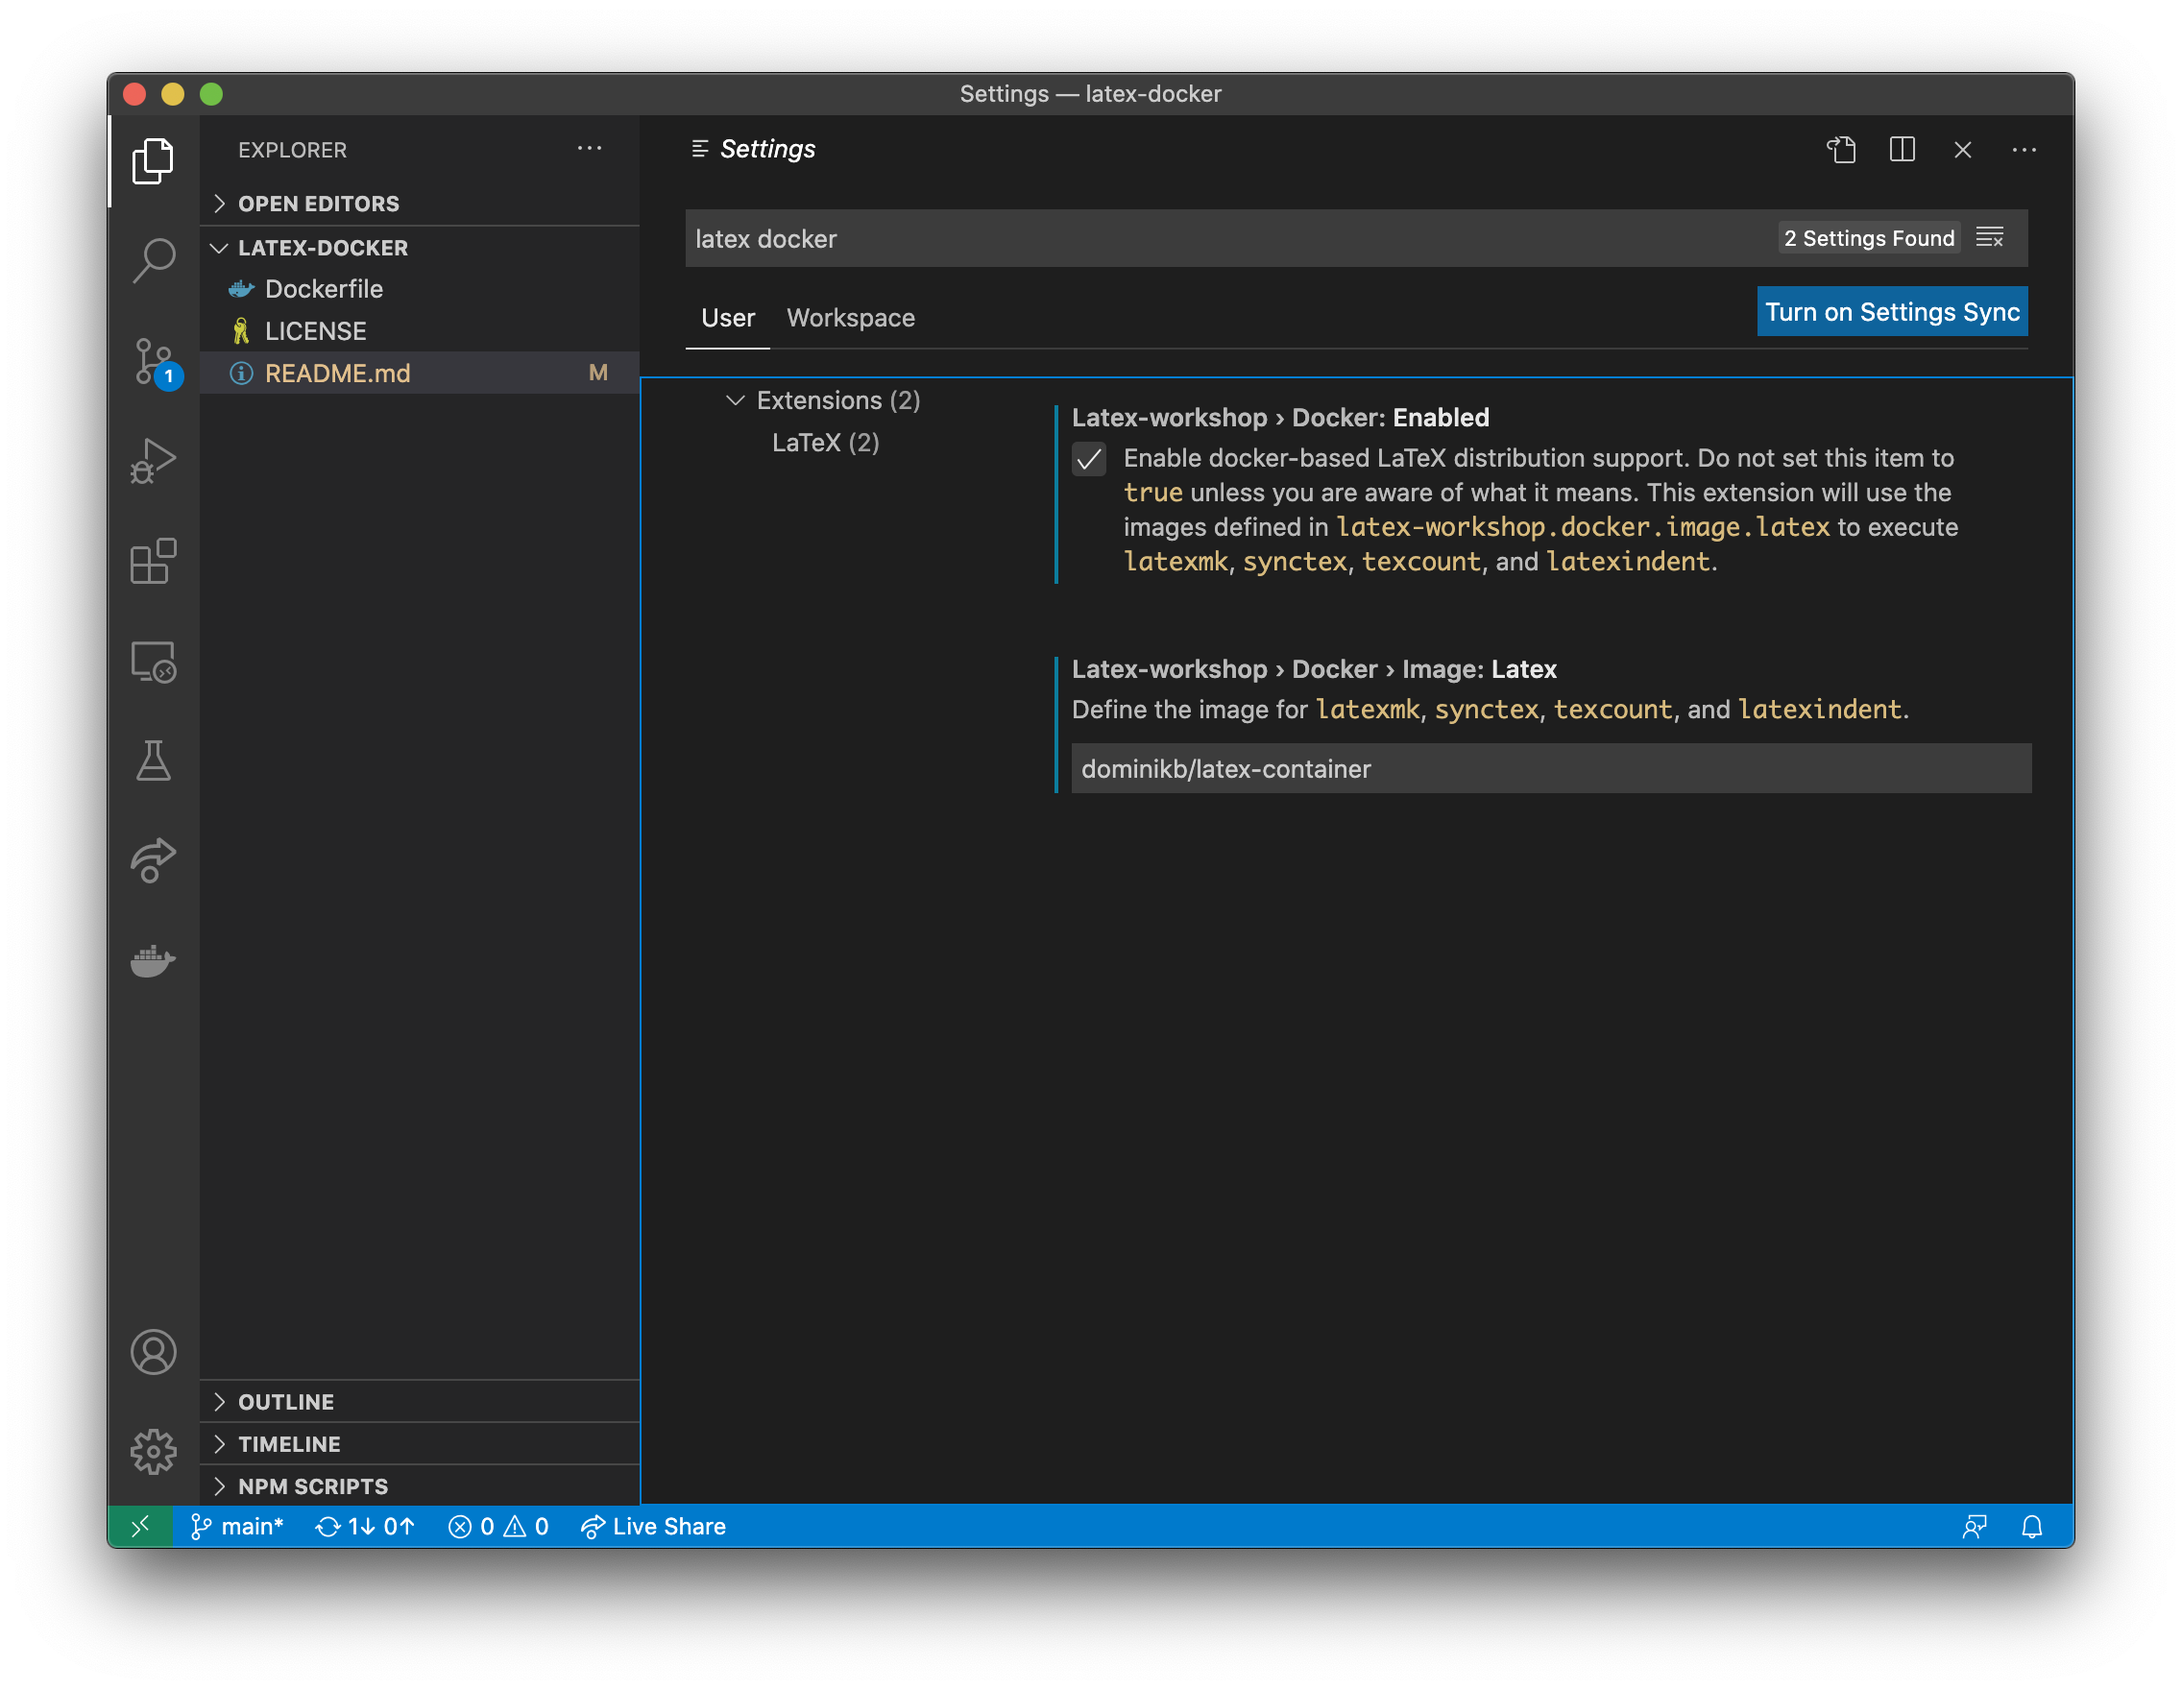
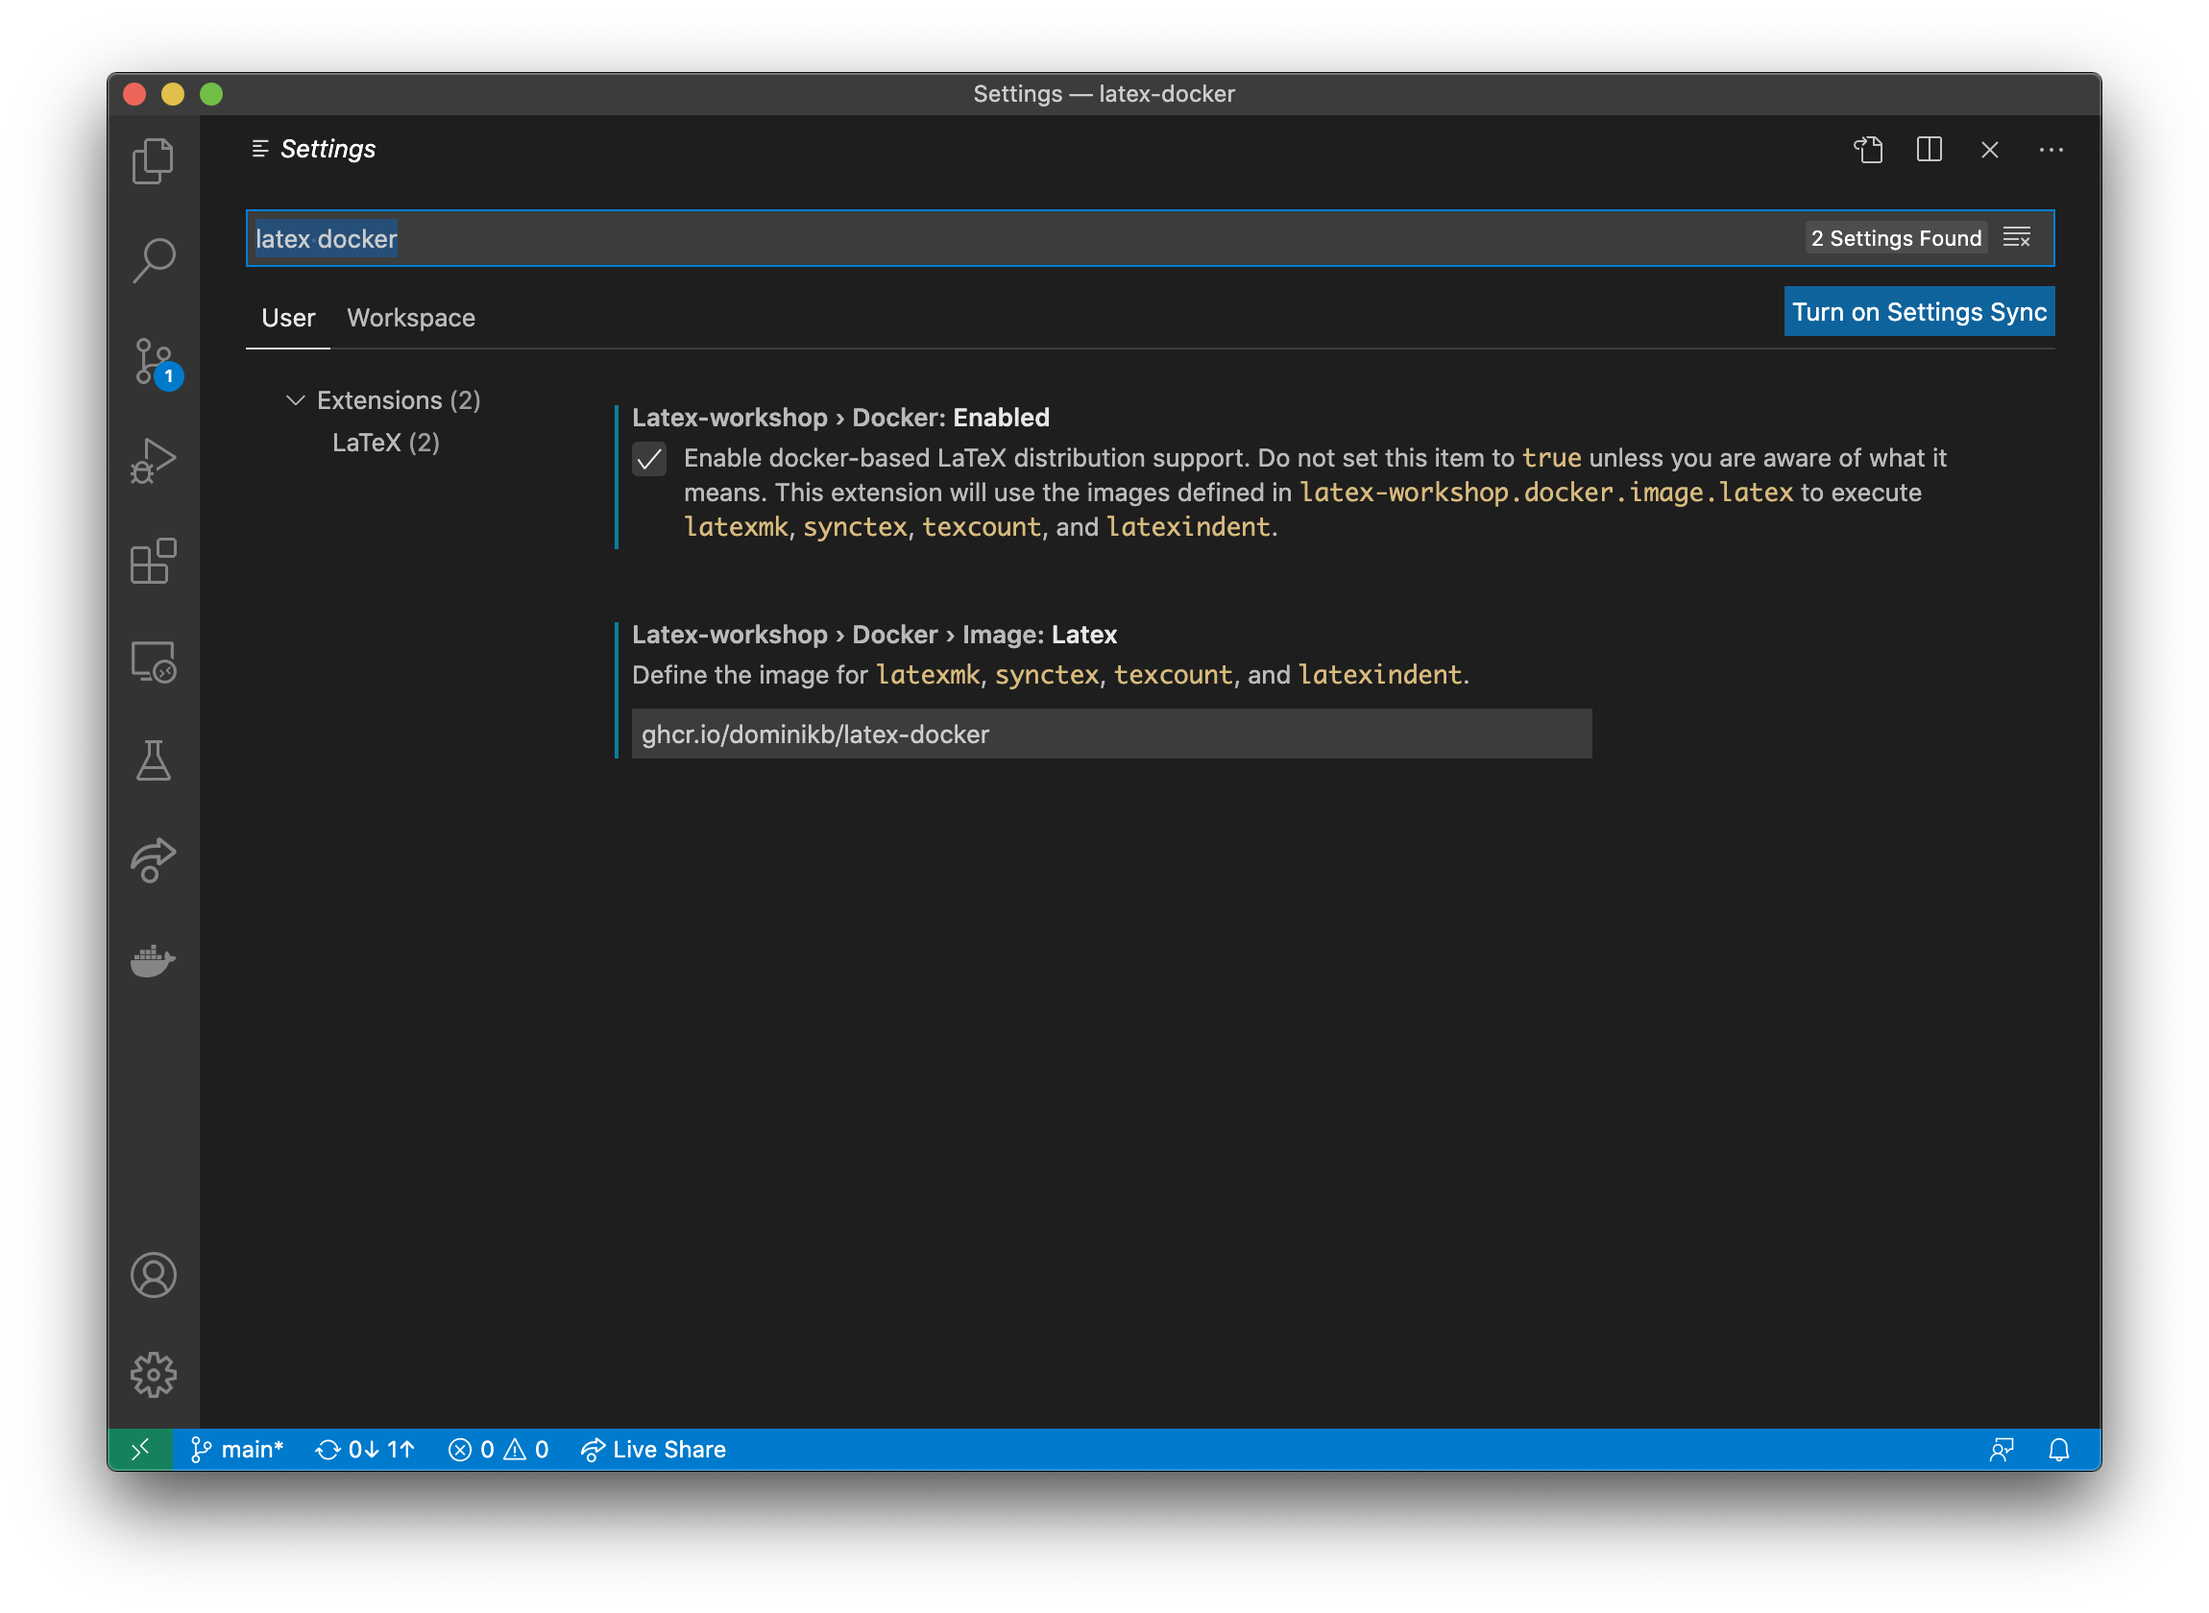
Update readme

diff --git a/README.md b/README.md
@@ -7,7 +7,7 @@ Check out https://github.com/James-Yu/LaTeX-Workshop
 
 1. Pull the image
 
-`docker pull docker.pkg.github.com/dominikb/latex-docker:latest`
+`docker pull ghcr.io/dominikb/latex-docker:latest`
 
 2. Change the plugin configuration in VSCode settings
 
